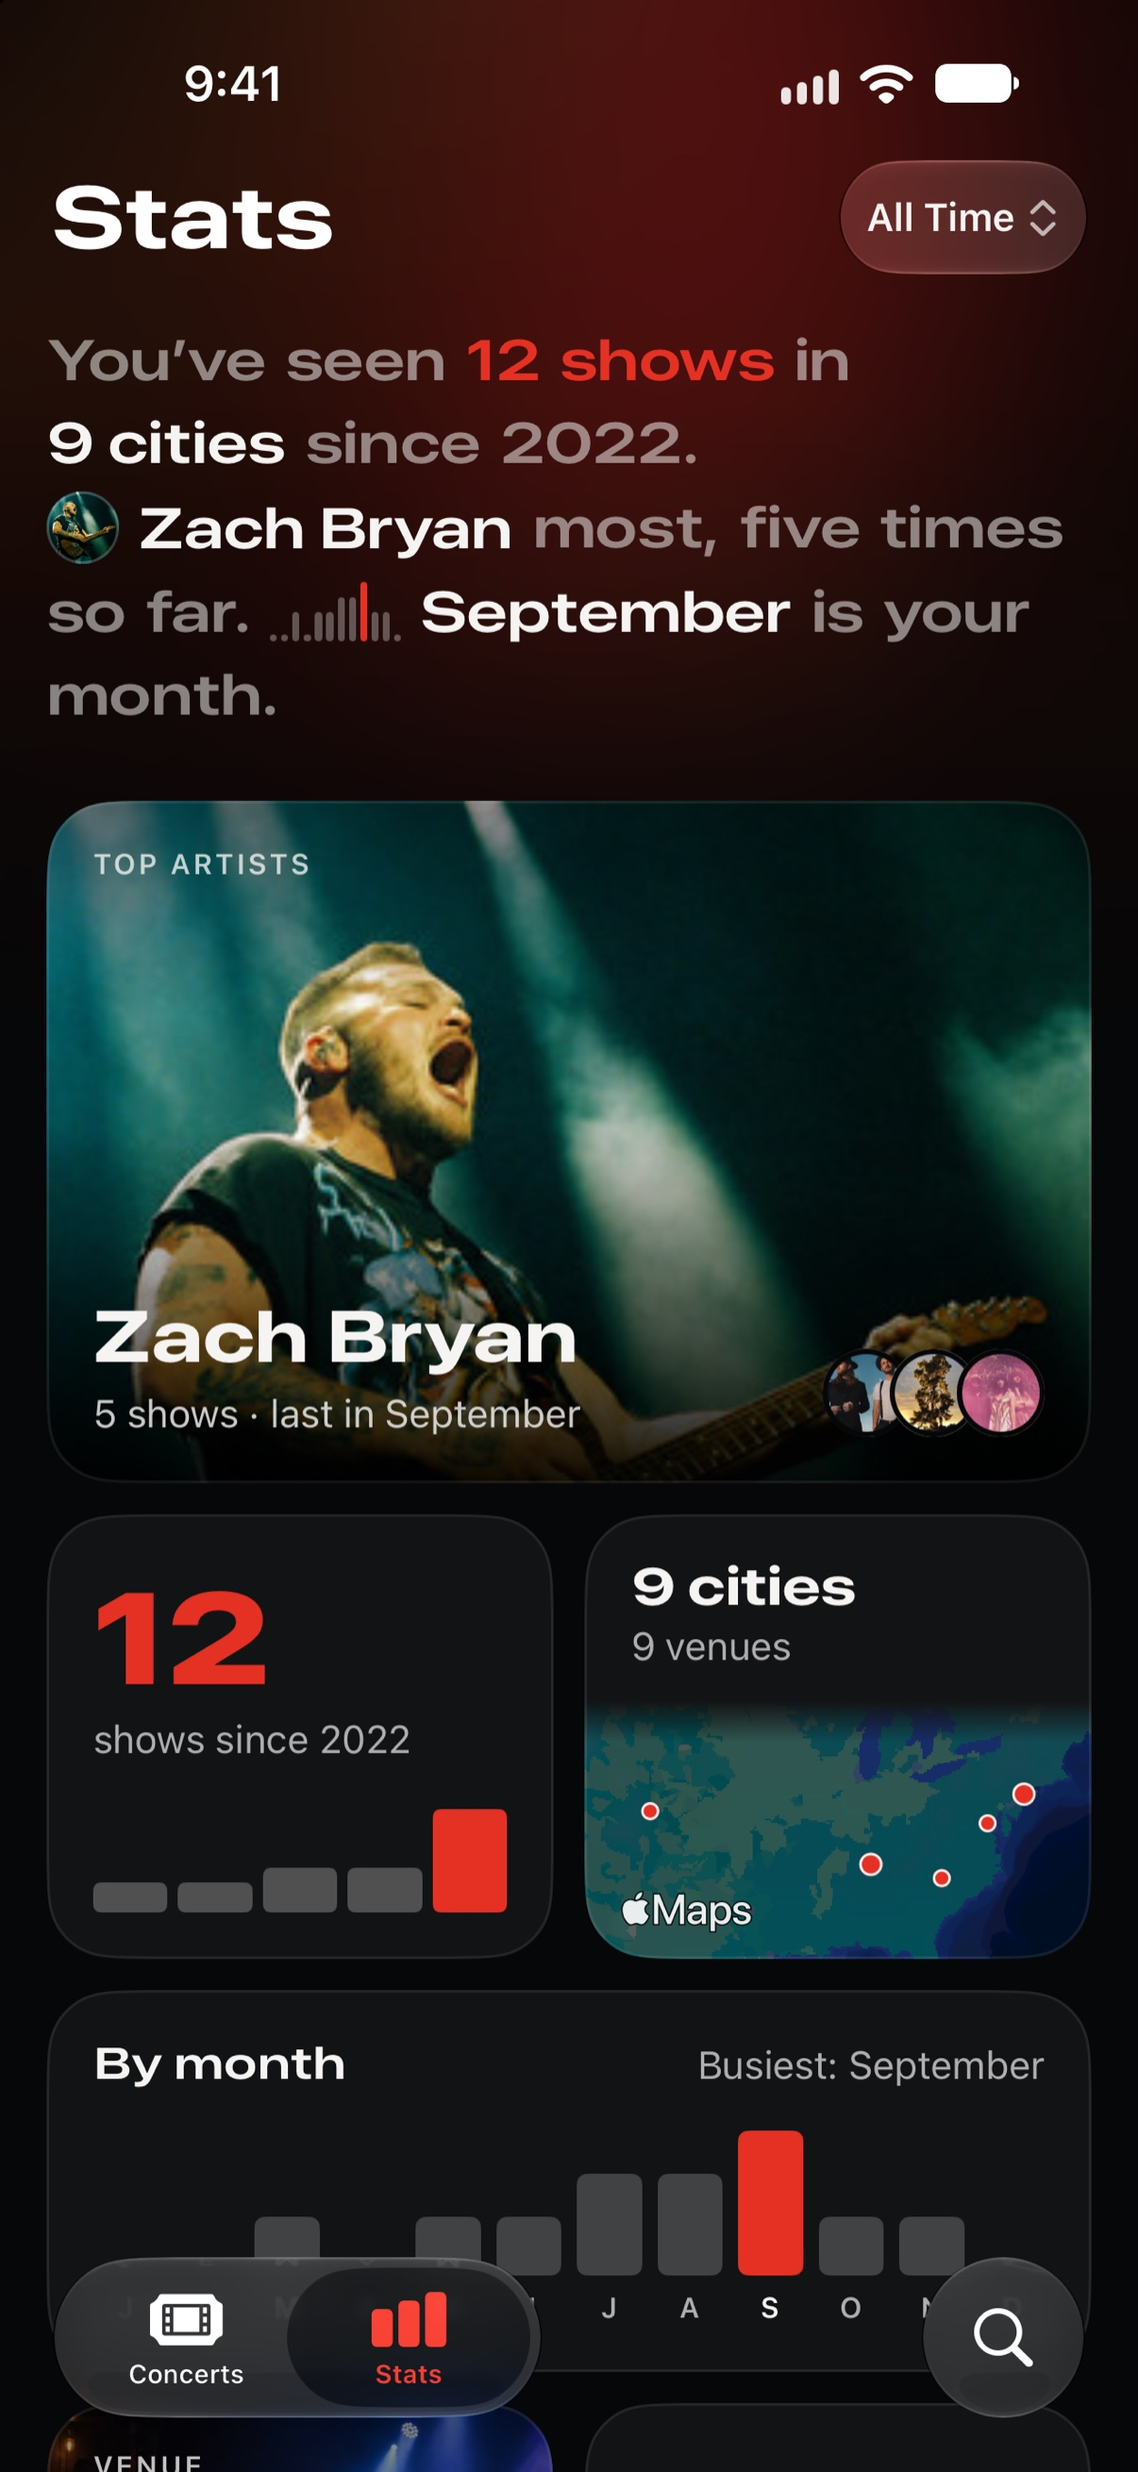
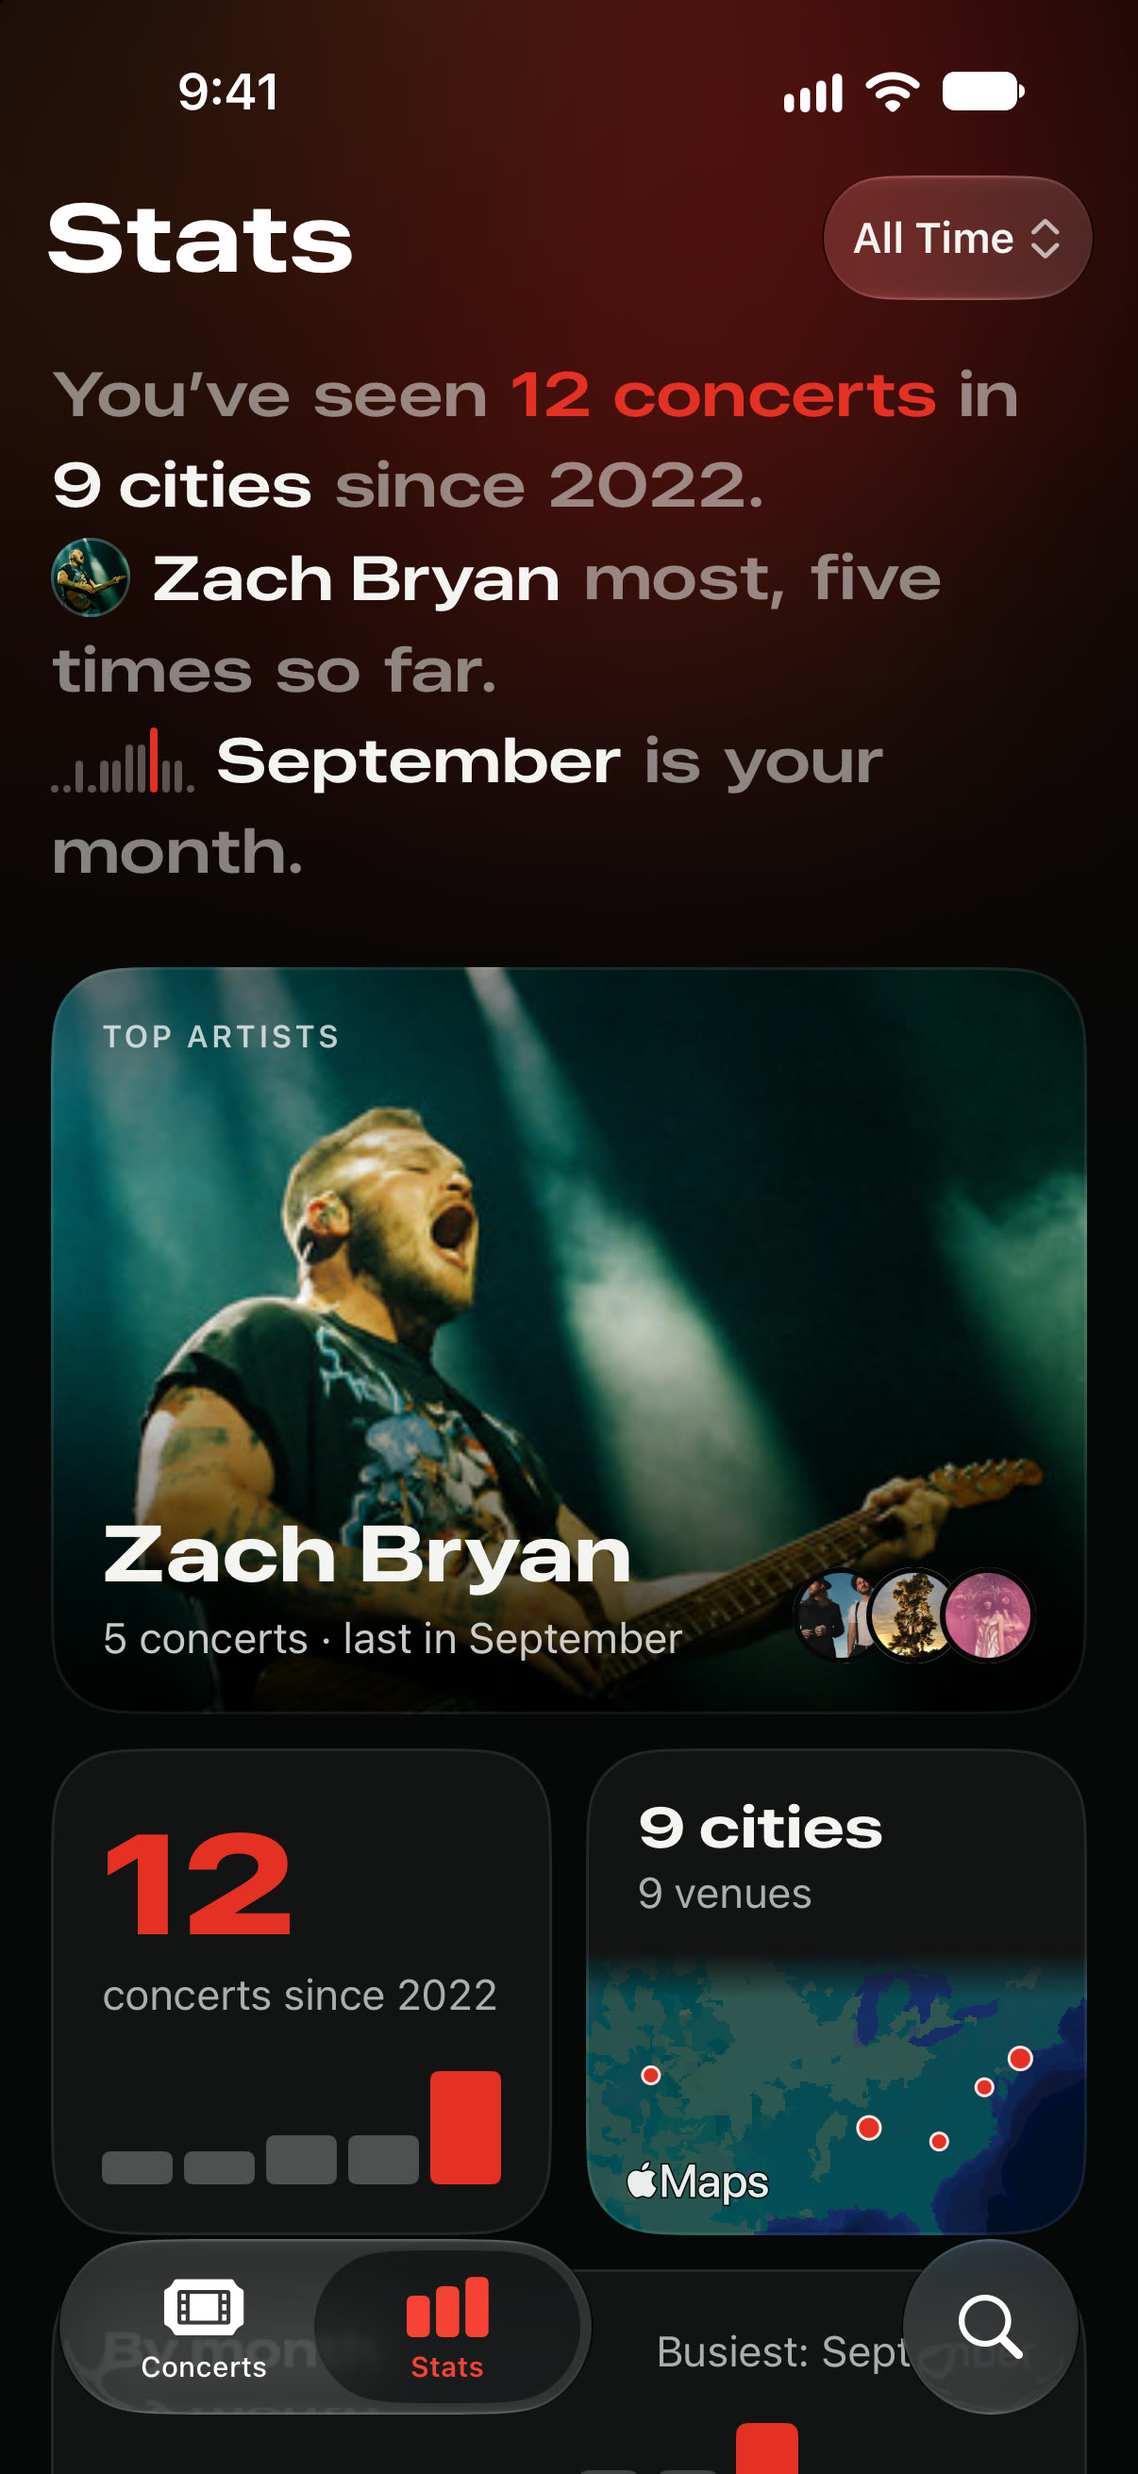
Refresh for launch: current screens, pins wording, store frames, corrected privacy text
Privacy: Shows does not request device location (the old text said it did);
home ZIP code goes to Apple's map service; MusicBrainz and Deezer named.

diff --git a/src/app/page.tsx b/src/app/page.tsx
@@ -16,6 +16,15 @@ function BenefitIcon({ kind }: { kind: "save" | "photos" | "setlist" | "story" |
   </svg>;
 }
 
+const GALLERY = [
+  ["02-home", "Your concerts, as photos: the Concerts list with Zach Bryan and The Lumineers"],
+  ["03-pins", "Earn a pin for every milestone: the pin collection, 7 of 14 earned"],
+  ["04-add", "Add a concert in one sentence: Noah Kahan at Fenway Park with its setlist found"],
+  ["05-keep", "Keep the photos and the setlist: a Zach Bryan concert with a 23-song setlist"],
+  ["06-stats", "See who you’ve seen most: Stats with the top artist, 12 concerts and 9 cities"],
+  ["07-share", "Share a concert as a card: three share cards made from concert photos"],
+];
+
 export default function Home() {
   return <div className="field-journal">
     <a href="#journal-main" className="journal-skip">Skip to content</a>
@@ -28,15 +37,15 @@ export default function Home() {
         <div className="hero-copy">
           <img className="hero-icon" src={asset("/app-icon.png")} width="124" height="124" alt="Shows app icon"/>
           <p className="eyebrow">Shows for iPhone</p>
-          <h1 id="hero-title">Every concert<br/><span>you’ve seen.</span></h1>
-          <p className="hero-description">Save the photos, videos, setlist and memories from each concert. Watch your artists, venues and cities add up over the years.</p>
+          <h1 id="hero-title">Every concert<br/><span>you’ve been to.</span></h1>
+          <p className="hero-description">Save the photos, videos, setlist and memories from each concert. See who you’ve seen most, and earn a pin for every milestone.</p>
           <Download/>
           <p className="hero-disclosure">Free to download. Shows Pro is needed to keep adding concerts.</p>
         </div>
         <figure className="phone-composition" aria-label="Concert stats and a saved concert on two iPhones">
           <div className="phone-stage ss-stage" data-theme="dark" data-fidelity="realistic">
-            <Phone width={270} frame="photo" status={false} island={false} className="phone-spots" capture={<img className="native-screen" src={asset("/product/stats.jpg")} width="1206" height="2620" alt="The Stats screen: 12 concerts in 9 cities, top artist and a map" fetchPriority="high"/>}/>
-            <Phone width={288} frame="photo" status={false} island={false} className="phone-journal" capture={<img className="native-screen" src={asset("/product/detail.jpg")} width="1206" height="2620" alt="A saved Khruangbin concert with a medal, photos and a note" fetchPriority="high"/>}/>
+            <Phone width={270} frame="photo" status={false} island={false} className="phone-spots" capture={<img className="native-screen" src={asset("/product/stats.jpg")} width="1206" height="2622" alt="The Stats screen: 12 concerts in 9 cities, top artist and a map" fetchPriority="high"/>}/>
+            <Phone width={288} frame="photo" status={false} island={false} className="phone-journal" capture={<img className="native-screen" src={asset("/product/detail.jpg")} width="1206" height="2622" alt="A saved Zach Bryan concert with two pins and photos" fetchPriority="high"/>}/>
           </div>
           <figcaption>Shown with sample concerts.</figcaption>
         </figure>
@@ -44,13 +53,19 @@ export default function Home() {
       <section id="the-journal" className="journal-benefits section-wrap" aria-labelledby="benefits-title">
         <div className="benefits-heading"><p className="eyebrow">Your live music history</p><h2 id="benefits-title">Keep the concert, not just the ticket.</h2><p>Your camera roll has the photos. Shows keeps them with the concert they came from.</p></div>
         <div className="benefit-grid">
-          <article><BenefitIcon kind="save"/><h3>Log a concert in seconds</h3><p>Find a past or upcoming concert by artist, city or venue, or enter it yourself. Add who you went with.</p></article>
+          <article><BenefitIcon kind="save"/><h3>Add a concert in one sentence</h3><p>Type who you saw, where and when, and Shows finds the concert. Or enter the details yourself.</p></article>
           <article><BenefitIcon kind="photos"/><h3>Photos and videos from the concert</h3><p>Pick from what you shot that day, and write down what you want to remember.</p></article>
           <article><BenefitIcon kind="setlist"/><h3>Keep the setlist</h3><p>Bring in available setlists from setlist.fm or add songs yourself. Play the songs back with Apple Music or find them on Spotify.</p></article>
-          <article><BenefitIcon kind="story"/><h3>See your concert stats</h3><p>Your most-seen artists, venues, cities and years, a map of where you’ve been, and medals as your history grows.</p></article>
-          <article><BenefitIcon kind="share"/><h3>Share the concert</h3><p>Turn a saved concert into a card with your photo, the date and the venue. Choose Blur, Ticket, Round or Arch.</p></article>
+          <article><BenefitIcon kind="story"/><h3>See who you’ve seen most</h3><p>Your most-seen artists, venues, cities and years, and a map of where you’ve been. Earn a pin for every milestone.</p></article>
+          <article><BenefitIcon kind="share"/><h3>Share the concert</h3><p>Turn a saved concert into a card with your photo, the date and the venue, and send it anywhere.</p></article>
           <article><BenefitIcon kind="remind"/><h3>Look back</h3><p>See the concerts you went to on this day in past years. Turn on a reminder for anniversaries or for the morning after a concert.</p></article>
         </div>
+      </section>
+      <section className="journal-gallery" aria-labelledby="gallery-title">
+        <div className="section-wrap"><p className="eyebrow">Inside Shows</p><h2 id="gallery-title">From the first concert to the fiftieth.</h2></div>
+        <ul className="gallery-row" tabIndex={0} aria-label="Screens from Shows">
+          {GALLERY.map(([file, alt]) => <li key={file}><img src={asset(`/gallery/${file}.jpg`)} width="720" height="1564" alt={alt} loading="lazy"/></li>)}
+        </ul>
       </section>
       <section className="journal-keeping section-wrap" aria-labelledby="keeping-title">
         <h2 id="keeping-title">Your journal stays yours.</h2>
@@ -58,7 +73,7 @@ export default function Home() {
         <div><h3>iCloud sync</h3><p>Your concerts sync through your own iCloud.</p></div>
         <div><h3>Backup export</h3><p>Export your journal whenever you want.</p></div>
       </section>
-      <section className="journal-close section-wrap" aria-label="Get Shows"><img src={asset("/app-icon.png")} width="112" height="112" alt=""/><h2>Start with the last concert you saw.</h2><Download/><p>Free to download. Shows Pro (monthly, annual or lifetime) is needed to keep adding concerts.<br/>Current prices and any eligible trial are shown in the app.</p></section>
+      <section className="journal-close section-wrap" aria-label="Get Shows"><img src={asset("/app-icon.png")} width="112" height="112" alt=""/><h2>Start with the last concert you saw.</h2><Download/><p>Free to download. Shows Pro (monthly, annual or lifetime) is needed to keep adding concerts.{" "}<br/>Current prices and any eligible trial are shown in the app.</p></section>
     </main>
     <footer className="journal-footer section-wrap"><a className="footer-wordmark" href={asset("/")}>Shows</a><nav aria-label="Footer navigation"><a href={asset("/support/")}>Support</a><a href={asset("/privacy/")}>Privacy</a><a href={asset("/terms/")}>Terms</a></nav><small>© {new Date().getFullYear()} Coard Miller</small></footer>
   </div>;

diff --git a/src/app/journal.css b/src/app/journal.css
@@ -36,6 +36,12 @@
 .field-journal .benefit-grid svg{width:32px;height:32px;color:var(--teal);margin-bottom:21px}
 .field-journal h3{font-size:19px;font-weight:650;line-height:1.3;letter-spacing:-.025em;margin:0 0 13px}
 .field-journal .benefit-grid p{font-size:16px;color:var(--muted);line-height:1.75;margin:0}
+.field-journal .journal-gallery{border-top:1px solid rgba(255,255,255,.1);padding-block:65px 80px}
+.field-journal .journal-gallery h2{margin-bottom:40px}
+.field-journal .gallery-row{list-style:none;margin:0;display:flex;gap:22px;overflow-x:auto;scroll-snap-type:x proximity;padding:4px max(56px,calc((100% - 1240px)/2)) 22px;scroll-padding-inline:max(56px,calc((100% - 1240px)/2));scrollbar-width:thin;scrollbar-color:rgba(255,255,255,.22) transparent}
+.field-journal .gallery-row:focus-visible{outline:3px solid #ff4436;outline-offset:-3px}
+.field-journal .gallery-row li{flex:none;scroll-snap-align:start}
+.field-journal .gallery-row img{display:block;width:290px;height:auto;border-radius:26px;border:1px solid rgba(255,255,255,.1)}
 .field-journal .journal-keeping{display:grid;grid-template-columns:1.15fr repeat(3,1fr);gap:35px;border-top:1px solid rgba(255,255,255,.1);padding-block:40px 50px}
 .field-journal .journal-keeping h2{font-size:25px;max-width:210px;margin:0}
 .field-journal .journal-keeping h3{font-size:15px;margin-bottom:9px}
@@ -52,6 +58,6 @@
 @container(max-width:550px){.field-journal .phone-stage{height:690px}.field-journal .phone-spots{transform:scale(.9);transform-origin:top right}.field-journal .phone-journal{transform:scale(.9);transform-origin:top left}}
 @container(max-width:430px){.field-journal .phone-stage{height:580px}.field-journal .phone-spots{transform:scale(.74);right:8px}.field-journal .phone-journal{transform:scale(.74);left:8px;top:90px}}
 @container(max-width:330px){.field-journal .phone-stage{height:500px}.field-journal .phone-spots{transform:scale(.63)}.field-journal .phone-journal{transform:scale(.63);top:76px}}
-@media(max-width:1100px){.field-journal .section-wrap{width:calc(100% - 64px)}.field-journal .journal-hero{gap:26px}.field-journal .benefit-grid{gap:30px}.field-journal .journal-keeping{grid-template-columns:repeat(3,1fr)}.field-journal .journal-keeping h2{grid-column:1/-1;max-width:none}}
+@media(max-width:1100px){.field-journal .section-wrap{width:calc(100% - 64px)}.field-journal .gallery-row{padding-inline:32px;scroll-padding-inline:32px}.field-journal .journal-hero{gap:26px}.field-journal .benefit-grid{gap:30px}.field-journal .journal-keeping{grid-template-columns:repeat(3,1fr)}.field-journal .journal-keeping h2{grid-column:1/-1;max-width:none}}
 @media(max-width:850px){.field-journal .journal-hero{grid-template-columns:minmax(0,1fr);text-align:center;padding-top:40px;gap:32px}.field-journal .hero-copy{padding:0}.field-journal .hero-icon{margin-inline:auto}.field-journal h1{font-size:64px}.field-journal .hero-description{margin-inline:auto;max-width:450px}.field-journal .phone-composition{width:560px;max-width:100%;margin-inline:auto}.field-journal .journal-nav nav{gap:20px}.field-journal .journal-nav nav>a:first-child{display:none}.field-journal .benefits-heading{max-width:560px}.field-journal .benefit-grid{gap:30px}.field-journal .journal-footer{flex-wrap:wrap;gap:12px 32px}}
-@media(max-width:600px){.field-journal .section-wrap{width:calc(100% - 40px)}.field-journal .journal-nav{height:85px;gap:12px}.field-journal .journal-brand{font-size:20px;gap:8px}.field-journal .journal-brand img{width:34px;height:34px}.field-journal .journal-nav nav{gap:0}.field-journal .journal-nav nav>a:not(.nav-download){display:none}.field-journal .nav-download{padding:9px 14px;font-size:12px;gap:8px}.field-journal .journal-hero{padding-block:28px 42px;gap:34px}.field-journal h1{font-size:clamp(43px,11.5vw,64px)}.field-journal .hero-description{font-size:17px;max-width:350px;line-height:1.65;margin-bottom:24px}.field-journal .eyebrow{font-size:11px;margin-bottom:16px}.field-journal .hero-icon{width:96px;height:96px;margin-bottom:22px}.field-journal .journal-benefits{padding-block:42px 45px}.field-journal .benefits-heading>p:last-child{font-size:16px}.field-journal .benefits-heading{margin-bottom:35px}.field-journal .benefit-grid{grid-template-columns:1fr;gap:30px}.field-journal .benefit-grid article{position:relative;padding-left:52px}.field-journal .benefit-grid svg{position:absolute;left:0;top:0;width:27px;height:27px}.field-journal h3{font-size:19px;margin-bottom:10px}.field-journal .benefit-grid p{font-size:15px;line-height:1.7}.field-journal .journal-keeping{grid-template-columns:1fr;gap:22px;padding-block:30px}.field-journal .journal-keeping h2{font-size:28px;margin-bottom:3px}.field-journal .journal-close{margin-top:16px;padding:40px 20px;border-radius:22px}.field-journal .journal-close h2{font-size:29px}.field-journal .journal-close p br{display:none}.field-journal .journal-footer{padding-block:26px;justify-content:space-between;gap:12px}.field-journal .journal-footer nav{gap:17px}.field-journal .journal-footer small{width:100%;margin:0}}
+@media(max-width:600px){.field-journal .section-wrap{width:calc(100% - 40px)}.field-journal .journal-gallery{padding-block:42px 40px}.field-journal .journal-gallery h2{margin-bottom:26px}.field-journal .gallery-row{gap:14px;padding-inline:20px;scroll-padding-inline:20px}.field-journal .gallery-row img{width:232px;border-radius:21px}.field-journal .journal-nav{height:85px;gap:12px}.field-journal .journal-brand{font-size:20px;gap:8px}.field-journal .journal-brand img{width:34px;height:34px}.field-journal .journal-nav nav{gap:0}.field-journal .journal-nav nav>a:not(.nav-download){display:none}.field-journal .nav-download{padding:9px 14px;font-size:12px;gap:8px}.field-journal .journal-hero{padding-block:28px 42px;gap:34px}.field-journal h1{font-size:clamp(43px,11.5vw,64px)}.field-journal .hero-description{font-size:17px;max-width:350px;line-height:1.65;margin-bottom:24px}.field-journal .eyebrow{font-size:11px;margin-bottom:16px}.field-journal .hero-icon{width:96px;height:96px;margin-bottom:22px}.field-journal .journal-benefits{padding-block:42px 45px}.field-journal .benefits-heading>p:last-child{font-size:16px}.field-journal .benefits-heading{margin-bottom:35px}.field-journal .benefit-grid{grid-template-columns:1fr;gap:30px}.field-journal .benefit-grid article{position:relative;padding-left:52px}.field-journal .benefit-grid svg{position:absolute;left:0;top:0;width:27px;height:27px}.field-journal h3{font-size:19px;margin-bottom:10px}.field-journal .benefit-grid p{font-size:15px;line-height:1.7}.field-journal .journal-keeping{grid-template-columns:1fr;gap:22px;padding-block:30px}.field-journal .journal-keeping h2{font-size:28px;margin-bottom:3px}.field-journal .journal-close{margin-top:16px;padding:40px 20px;border-radius:22px}.field-journal .journal-close h2{font-size:29px}.field-journal .journal-close p br{display:none}.field-journal .journal-footer{padding-block:26px;justify-content:space-between;gap:12px}.field-journal .journal-footer nav{gap:17px}.field-journal .journal-footer small{width:100%;margin:0}}

diff --git a/src/components/LegalPage.tsx b/src/components/LegalPage.tsx
@@ -18,7 +18,7 @@ export function LegalPage({ kind, updated }: { kind: "privacy" | "support" | "te
       <div className="flex gap-5 text-[13px]" style={{ color: "var(--encore-muted)" }}><a href={asset("/support/")}>Support</a><a href={asset("/privacy/")}>Privacy</a><a href={asset("/terms/")}>Terms</a></div>
     </nav>
     <article className="max-w-[760px] mx-auto px-6 py-12">
-      <h1 className="text-[clamp(2.2rem,5vw,3.4rem)] font-bold leading-[1.05] mb-2" style={{ letterSpacing: "-.03em" }}>{title.replace(/^Shows /, "")}</h1>
+      <h1 className="text-[clamp(2.2rem,5vw,3.4rem)] font-bold leading-[1.05] mb-2" style={{ letterSpacing: "-.03em" }}>{title.replace(/^Shows (.)/, (_, c: string) => c.toUpperCase())}</h1>
       {updated && <p className="text-[13px] mb-8" style={{ color: "var(--encore-muted)" }}>Effective {updated}</p>}
       <div className="space-y-5 text-[16px] leading-[1.75]">
         {blocks.map((b, i) => b.h

diff --git a/src/app/privacy/page.tsx b/src/app/privacy/page.tsx
@@ -4,5 +4,5 @@ import { LegalPage } from "@/components/LegalPage";
 export const metadata: Metadata = { title: "Shows Privacy Policy", alternates: { canonical: "privacy/" } };
 
 export default function Page() {
-  return <LegalPage kind="privacy" updated="November 15, 2026"/>;
+  return <LegalPage kind="privacy" updated="November 18, 2026"/>;
 }

diff --git a/src/app/terms/page.tsx b/src/app/terms/page.tsx
@@ -4,5 +4,5 @@ import { LegalPage } from "@/components/LegalPage";
 export const metadata: Metadata = { title: "Shows Terms of Use", alternates: { canonical: "terms/" } };
 
 export default function Page() {
-  return <LegalPage kind="terms" updated="November 15, 2026"/>;
+  return <LegalPage kind="terms" updated="November 18, 2026"/>;
 }

diff --git a/README.md b/README.md
@@ -4,5 +4,5 @@ Public marketing, support, privacy and terms pages for Shows – Concert Tracker
 Static Next.js export deployed on Vercel (project `encore`).
 
 Adapted from the FishLogger website. Legal and support text mirrors `docs/launch/` in the Encore app repo.
-Screenshots are native simulator captures using the app's sample concerts.
+Screenshots are native simulator captures using the app's sample concerts. The gallery row (`public/gallery/`) is the App Store screenshot set, frames 2 to 7; replace both when the store set changes.
 To launch: set `APP_STORE_LIVE = true` in `src/lib/site.mjs`.
